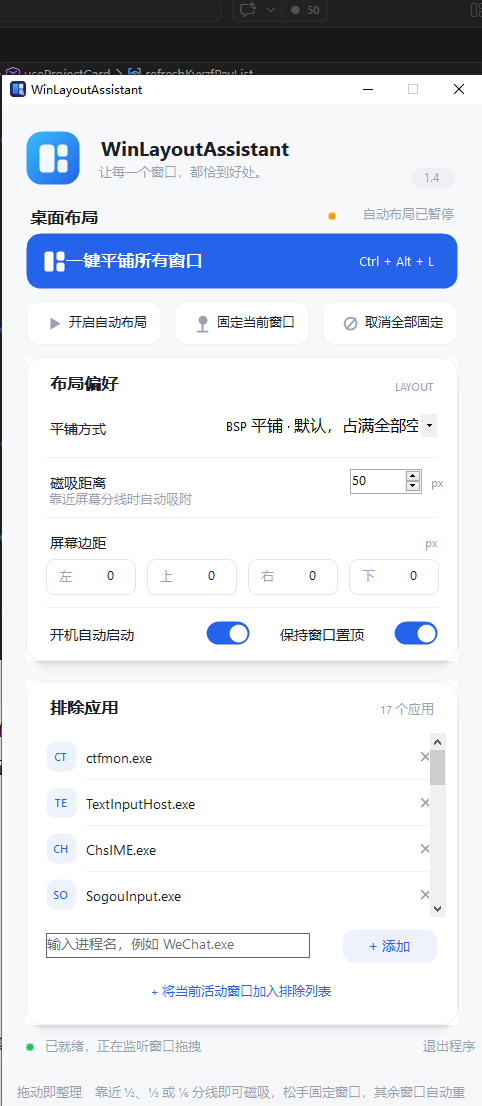
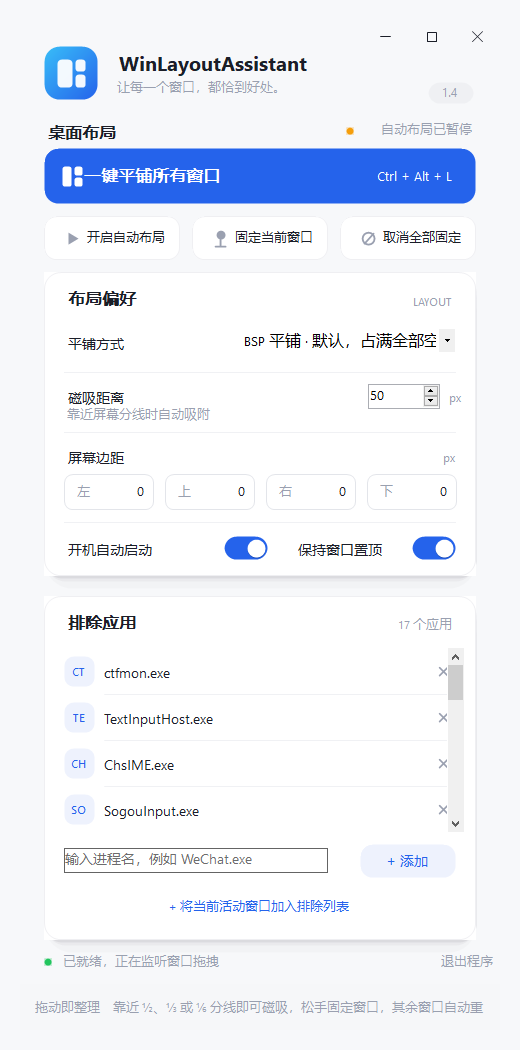
Fix caption buttons anchor + replace NumericUpDown with TextBox in MarginBox
- Anchor the custom min/max/close buttons after ClientSize is set, so
  they stay pinned to the top-right instead of being pushed off-screen.
- Swap the MarginBox NumericUpDown (hidden-spin hack) for a plain
  borderless TextBox: digits only, live update, clamp 0-800 on leave.
  Removes the black specks rendered by the spin control on dark themes.

diff --git a/src/UiControls.cs b/src/UiControls.cs
@@ -309,16 +309,23 @@ public sealed class ToggleSwitch : Control
 /// <summary>
 /// Margin input: white rounded box with a grey edge label (左/上/右/下)
 /// on the left and a borderless numeric field on the right.
+/// v1.4.1: plain TextBox instead of NumericUpDown – the hidden-spin-button
+/// hack rendered as black specks on dark-themed systems.
 /// </summary>
 public sealed class MarginBox : Panel
 {
-    private readonly NumericUpDown _num;
+    private const int MaxValue = 800;
+    private readonly TextBox _box;
     public event EventHandler? ValueChanged;
 
     public decimal Value
     {
-        get => _num.Value;
-        set => _num.Value = value;
+        get => int.TryParse(_box.Text, out var v) ? v : 0m;
+        set
+        {
+            int v = Math.Clamp((int)value, 0, MaxValue);
+            _box.Text = v.ToString();
+        }
     }
 
     public MarginBox(string edgeLabel)
@@ -338,29 +345,38 @@ public sealed class MarginBox : Panel
             Left = 10,
             Top = 10
         };
-        _num = new NumericUpDown
+        _box = new TextBox
         {
-            Minimum = 0,
-            Maximum = 800,
             BorderStyle = BorderStyle.None,
             BackColor = Theme.Card,
             Font = Theme.BodyFont,
             ForeColor = Theme.Text,
             Left = 36,
-            Top = 7,
-            Width = 48,
-            TextAlign = HorizontalAlignment.Right
+            Top = 8,
+            Width = 44,
+            TextAlign = HorizontalAlignment.Right,
+            Text = "0"
         };
-        // Hide the spin arrows and stretch the edit field, like the mockup.
-        try
+        _box.KeyPress += (_, e) =>
         {
-            _num.Controls[0].Visible = false; // up/down buttons
-            _num.Controls[1].Width = _num.Width - 4; // edit fills the box
-        }
-        catch { /* best-effort */ }
-        _num.ValueChanged += (s, e) => ValueChanged?.Invoke(s, e);
+            // digits and editing keys only – the box holds pixel margins
+            if (!char.IsDigit(e.KeyChar) && e.KeyChar != '\b')
+                e.Handled = true;
+        };
+        _box.TextChanged += (s, e) =>
+        {
+            // live-update the setting while typing; empty text is ignored
+            if (int.TryParse(_box.Text, out _)) ValueChanged?.Invoke(s, e);
+        };
+        _box.Leave += (_, _) =>
+        {
+            // normalize on the way out: clamp to range, drop leading zeros
+            int v = int.TryParse(_box.Text, out var parsed) ? parsed : 0;
+            v = Math.Clamp(v, 0, MaxValue);
+            if (_box.Text != v.ToString()) _box.Text = v.ToString();
+        };
         Controls.Add(lab);
-        Controls.Add(_num);
+        Controls.Add(_box);
     }
 
     protected override void OnPaint(PaintEventArgs e)
@@ -544,6 +560,68 @@ public sealed class StatusDot : Control
         g.FillEllipse(halo, -2, -2, Width + 4, Height + 4);
         using var core = new SolidBrush(_dotColor);
         g.FillEllipse(core, 0, 0, Width - 1, Height - 1);
+    }
+}
+
+/// <summary>
+/// Window-chrome button for the borderless form: thin line glyphs
+/// (min / max / close), Win11-style hover background, close turns red.
+/// </summary>
+public sealed class CaptionButton : Control
+{
+    public enum CapGlyph { Min, Max, Close }
+    public CapGlyph Glyph { get; set; } = CapGlyph.Close;
+
+    private static readonly Color CloseHover = Color.FromArgb(0xE8, 0x11, 0x23);
+    private bool _hover;
+    private bool _pressed;
+
+    public CaptionButton()
+    {
+        Size = new Size(46, 32);
+        BackColor = Theme.Background;
+        SetStyle(ControlStyles.OptimizedDoubleBuffer | ControlStyles.AllPaintingInWmPaint |
+                 ControlStyles.UserPaint | ControlStyles.ResizeRedraw |
+                 ControlStyles.Selectable, true);
+        SetStyle(ControlStyles.Selectable, false);
+        TabStop = false;
+    }
+
+    protected override void OnMouseEnter(EventArgs e) { _hover = true; Invalidate(); base.OnMouseEnter(e); }
+    protected override void OnMouseLeave(EventArgs e) { _hover = false; _pressed = false; Invalidate(); base.OnMouseLeave(e); }
+    protected override void OnMouseDown(MouseEventArgs e) { _pressed = true; Invalidate(); base.OnMouseDown(e); }
+    protected override void OnMouseUp(MouseEventArgs e) { _pressed = false; Invalidate(); base.OnMouseUp(e); }
+
+    protected override void OnPaint(PaintEventArgs e)
+    {
+        var g = e.Graphics;
+        g.SmoothingMode = SmoothingMode.AntiAlias;
+
+        if (_pressed || _hover)
+        {
+            Color bg = Glyph == CapGlyph.Close
+                ? (_pressed ? Color.FromArgb(0xC4, 0x0E, 0x1D) : CloseHover)
+                : (_pressed ? Color.FromArgb(0x1F, 0x1B, 0x1E, 0x28) : Color.FromArgb(0x12, 0x1B, 0x1E, 0x28));
+            using var brush = new SolidBrush(bg);
+            g.FillRectangle(brush, ClientRectangle);
+        }
+
+        Color fore = _hover && Glyph == CapGlyph.Close ? Color.White : Theme.Text;
+        using var pen = new Pen(fore, 1.2f) { StartCap = LineCap.Round, EndCap = LineCap.Round };
+        int cx = Width / 2, cy = Height / 2;
+        switch (Glyph)
+        {
+            case CapGlyph.Min:
+                g.DrawLine(pen, cx - 5, cy, cx + 5, cy);
+                break;
+            case CapGlyph.Max:
+                g.DrawRectangle(pen, cx - 4, cy - 4, 9, 9);
+                break;
+            default:
+                g.DrawLine(pen, cx - 5, cy - 5, cx + 5, cy + 5);
+                g.DrawLine(pen, cx - 5, cy + 5, cx + 5, cy - 5);
+                break;
+        }
     }
 }
 

diff --git a/src/MainForm.cs b/src/MainForm.cs
@@ -15,8 +15,11 @@ public sealed class MainForm : Form
     [DllImport("user32.dll")] private static extern bool RegisterHotKey(IntPtr hWnd, int id, uint fsModifiers, uint vk);
     [DllImport("user32.dll")] private static extern bool UnregisterHotKey(IntPtr hWnd, int id);
     [DllImport("user32.dll")] private static extern IntPtr GetForegroundWindow();
+    [DllImport("user32.dll")] private static extern bool ReleaseCapture();
+    [DllImport("user32.dll")] private static extern IntPtr SendMessage(IntPtr hWnd, int msg, int wParam, int lParam);
     private const uint MOD_ALT = 0x1, MOD_CONTROL = 0x2;
     private const int WM_HOTKEY = 0x0312;
+    private const int WM_NCLBUTTONDOWN = 0xA1, HTCAPTION = 2;
 
     private bool _reallyExit; // set only by tray "退出" -> OnFormClosing must not cancel
 
@@ -47,11 +50,22 @@ public sealed class MainForm : Form
     {
         Text = "WinLayoutAssistant";
         StartPosition = FormStartPosition.CenterScreen;
-        FormBorderStyle = FormBorderStyle.FixedDialog;
+        // Borderless window: we draw our own min/max/close caption buttons
+        // top-right; the header area acts as the drag region.
+        FormBorderStyle = FormBorderStyle.None;
         MaximizeBox = false;
         BackColor = Theme.Background;
         Font = Theme.BodyFont;
         ForeColor = Theme.Text;
+
+        // custom window chrome, top-right
+        var capMin = new CaptionButton { Glyph = CaptionButton.CapGlyph.Min, Top = 0, Left = 480 - 138 };
+        var capMax = new CaptionButton { Glyph = CaptionButton.CapGlyph.Max, Top = 0, Left = 480 - 92 };
+        var capClose = new CaptionButton { Glyph = CaptionButton.CapGlyph.Close, Top = 0, Left = 480 - 46 };
+        capMin.Click += (_, _) => WindowState = FormWindowState.Minimized;
+        capMax.Click += (_, _) => ToggleMaximize();
+        capClose.Click += (_, _) => Close(); // hides to tray, like the old X
+        Controls.AddRange(new Control[] { capMin, capMax, capClose });
 
         _modeBox.Items.AddRange(new object[] { "BSP 平铺 · 默认，占满全部空间", "网格平铺 (Grid)", "横向分列 (Columns)", "纵向分行 (Rows)" });
         _modeBox.SelectedIndex = (int)_settings.LayoutMode;
@@ -72,6 +86,11 @@ public sealed class MainForm : Form
         var title = new Label { Text = "WinLayoutAssistant", Top = 28, Left = 94, AutoSize = true, Font = Theme.TitleFont, ForeColor = Theme.Text, BackColor = Theme.Background };
         var sub = new Label { Text = "让每一个窗口，都恰到好处。", Top = 60, Left = 94, AutoSize = true, Font = Theme.SmallFont, ForeColor = Theme.TextSecondary, BackColor = Theme.Background };
         var pill = new PillLabel { Text = "1.4", Top = 62, Left = 408 }; // bottom-right of the header, aligned with the tagline
+        // header controls also act as drag region for the borderless window
+        badge.MouseDown += DragOnHeader;
+        title.MouseDown += DragOnHeader;
+        sub.MouseDown += DragOnHeader;
+        pill.MouseDown += DragOnHeader;
 
         // --- section row: 桌面布局 + auto-layout state ---
         var section = new Label { Text = "桌面布局", Top = 102, Left = 24, AutoSize = true, Font = Theme.SectionFont, ForeColor = Theme.Text, BackColor = Theme.Background };
@@ -174,6 +193,9 @@ public sealed class MainForm : Form
             card2, card3, _statusDot, _status, exitLink, band
         });
         ClientSize = new Size(480, 1010);
+        // anchor only after the final size is set, otherwise the offset is
+        // computed against the default size and the buttons end up off-screen
+        capMin.Anchor = capMax.Anchor = capClose.Anchor = AnchorStyles.Top | AnchorStyles.Right;
         ActiveControl = null; // no focus rectangle on the link button at startup
 
         _modeBox.SelectedIndexChanged += (_, _) => { _settings.LayoutMode = (TileEngine.Mode)_modeBox.SelectedIndex; _settings.Save(); };
@@ -424,6 +446,48 @@ public sealed class MainForm : Form
         base.OnPaintBackground(e);
         foreach (var card in _cards)
             Theme.DrawSoftShadow(e.Graphics, card.Bounds, card.Radius);
+    }
+
+    /// <summary>Drop shadow for the borderless window (DWM class style).</summary>
+    protected override CreateParams CreateParams
+    {
+        get
+        {
+            const int CS_DROPSHADOW = 0x20000;
+            var cp = base.CreateParams;
+            cp.ClassStyle |= CS_DROPSHADOW;
+            return cp;
+        }
+    }
+
+    /// <summary>Drag the borderless window by its header area.</summary>
+    private void DragOnHeader(object? sender, MouseEventArgs e)
+    {
+        if (e.Button != MouseButtons.Left) return;
+        ReleaseCapture();
+        SendMessage(Handle, WM_NCLBUTTONDOWN, HTCAPTION, 0);
+    }
+
+    protected override void OnMouseDown(MouseEventArgs e)
+    {
+        base.OnMouseDown(e);
+        // header strip (above the hero button) doubles as the drag region
+        if (e.Y <= 100) DragOnHeader(this, e);
+    }
+
+    /// <summary>Maximize to the working area / restore. The layout is
+    /// absolutely positioned, so maximizing only enlarges the page.</summary>
+    private void ToggleMaximize()
+    {
+        if (WindowState == FormWindowState.Maximized)
+        {
+            WindowState = FormWindowState.Normal;
+        }
+        else
+        {
+            MaximizedBounds = Screen.FromHandle(Handle).WorkingArea;
+            WindowState = FormWindowState.Maximized;
+        }
     }
 
     protected override void OnFormClosing(FormClosingEventArgs e)
